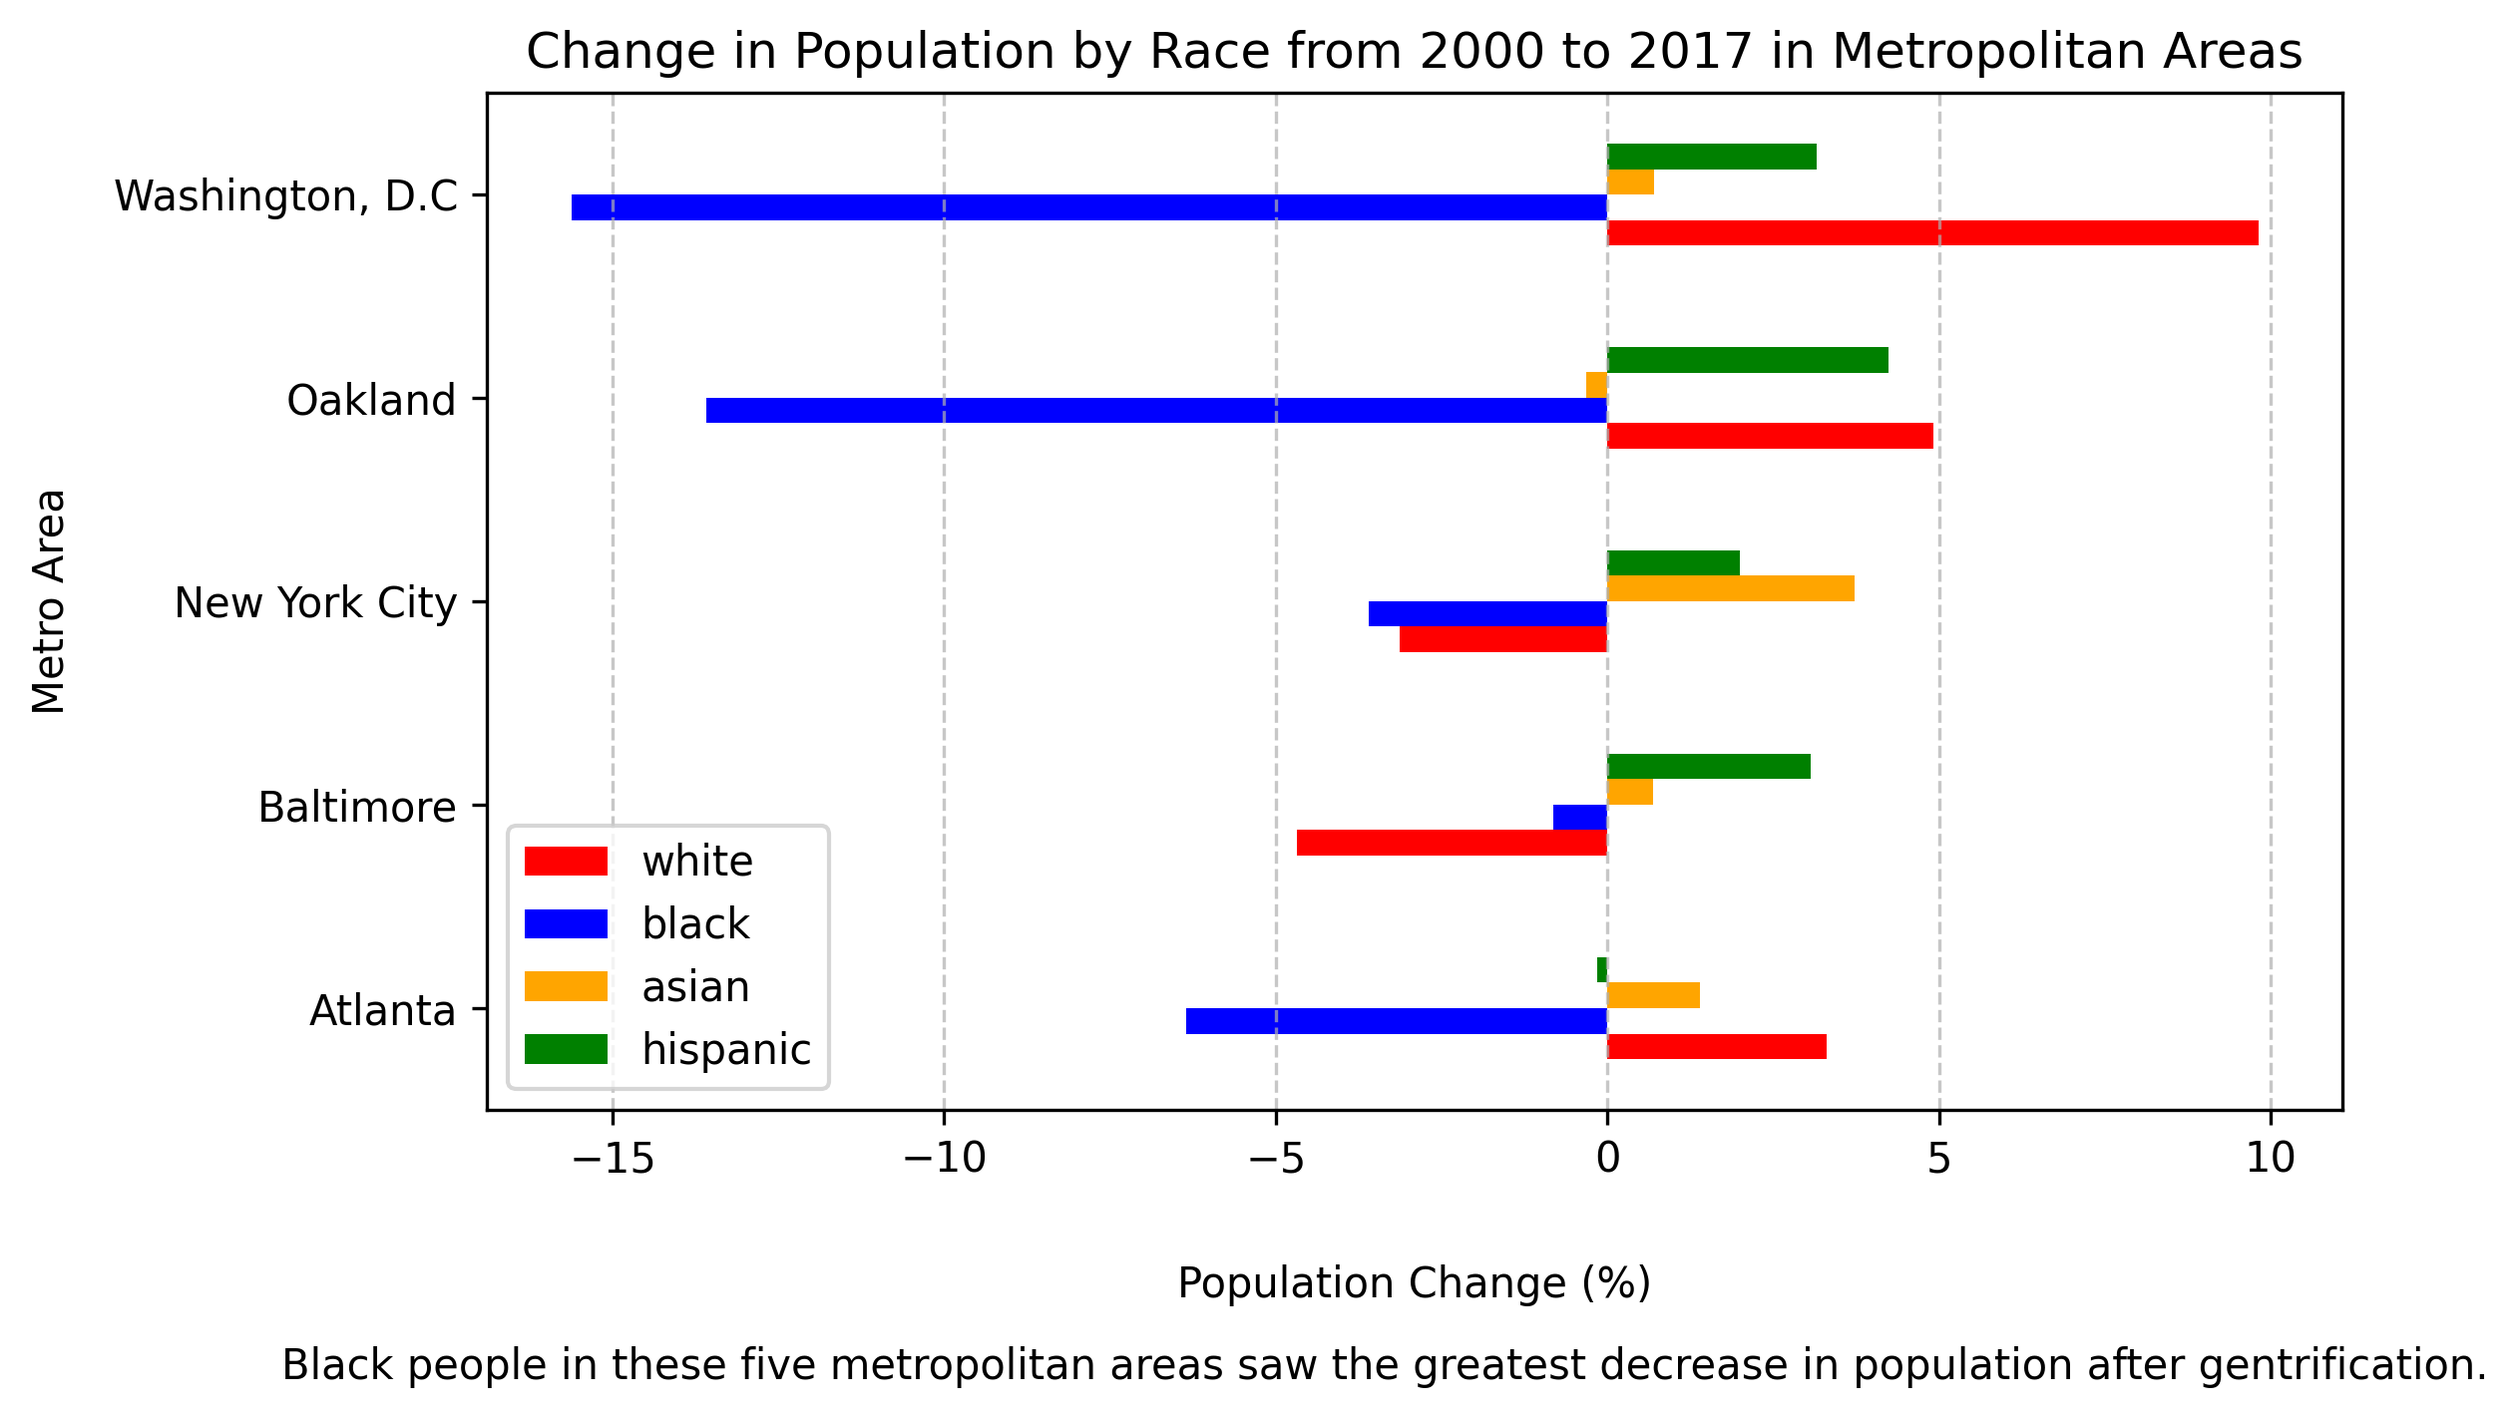
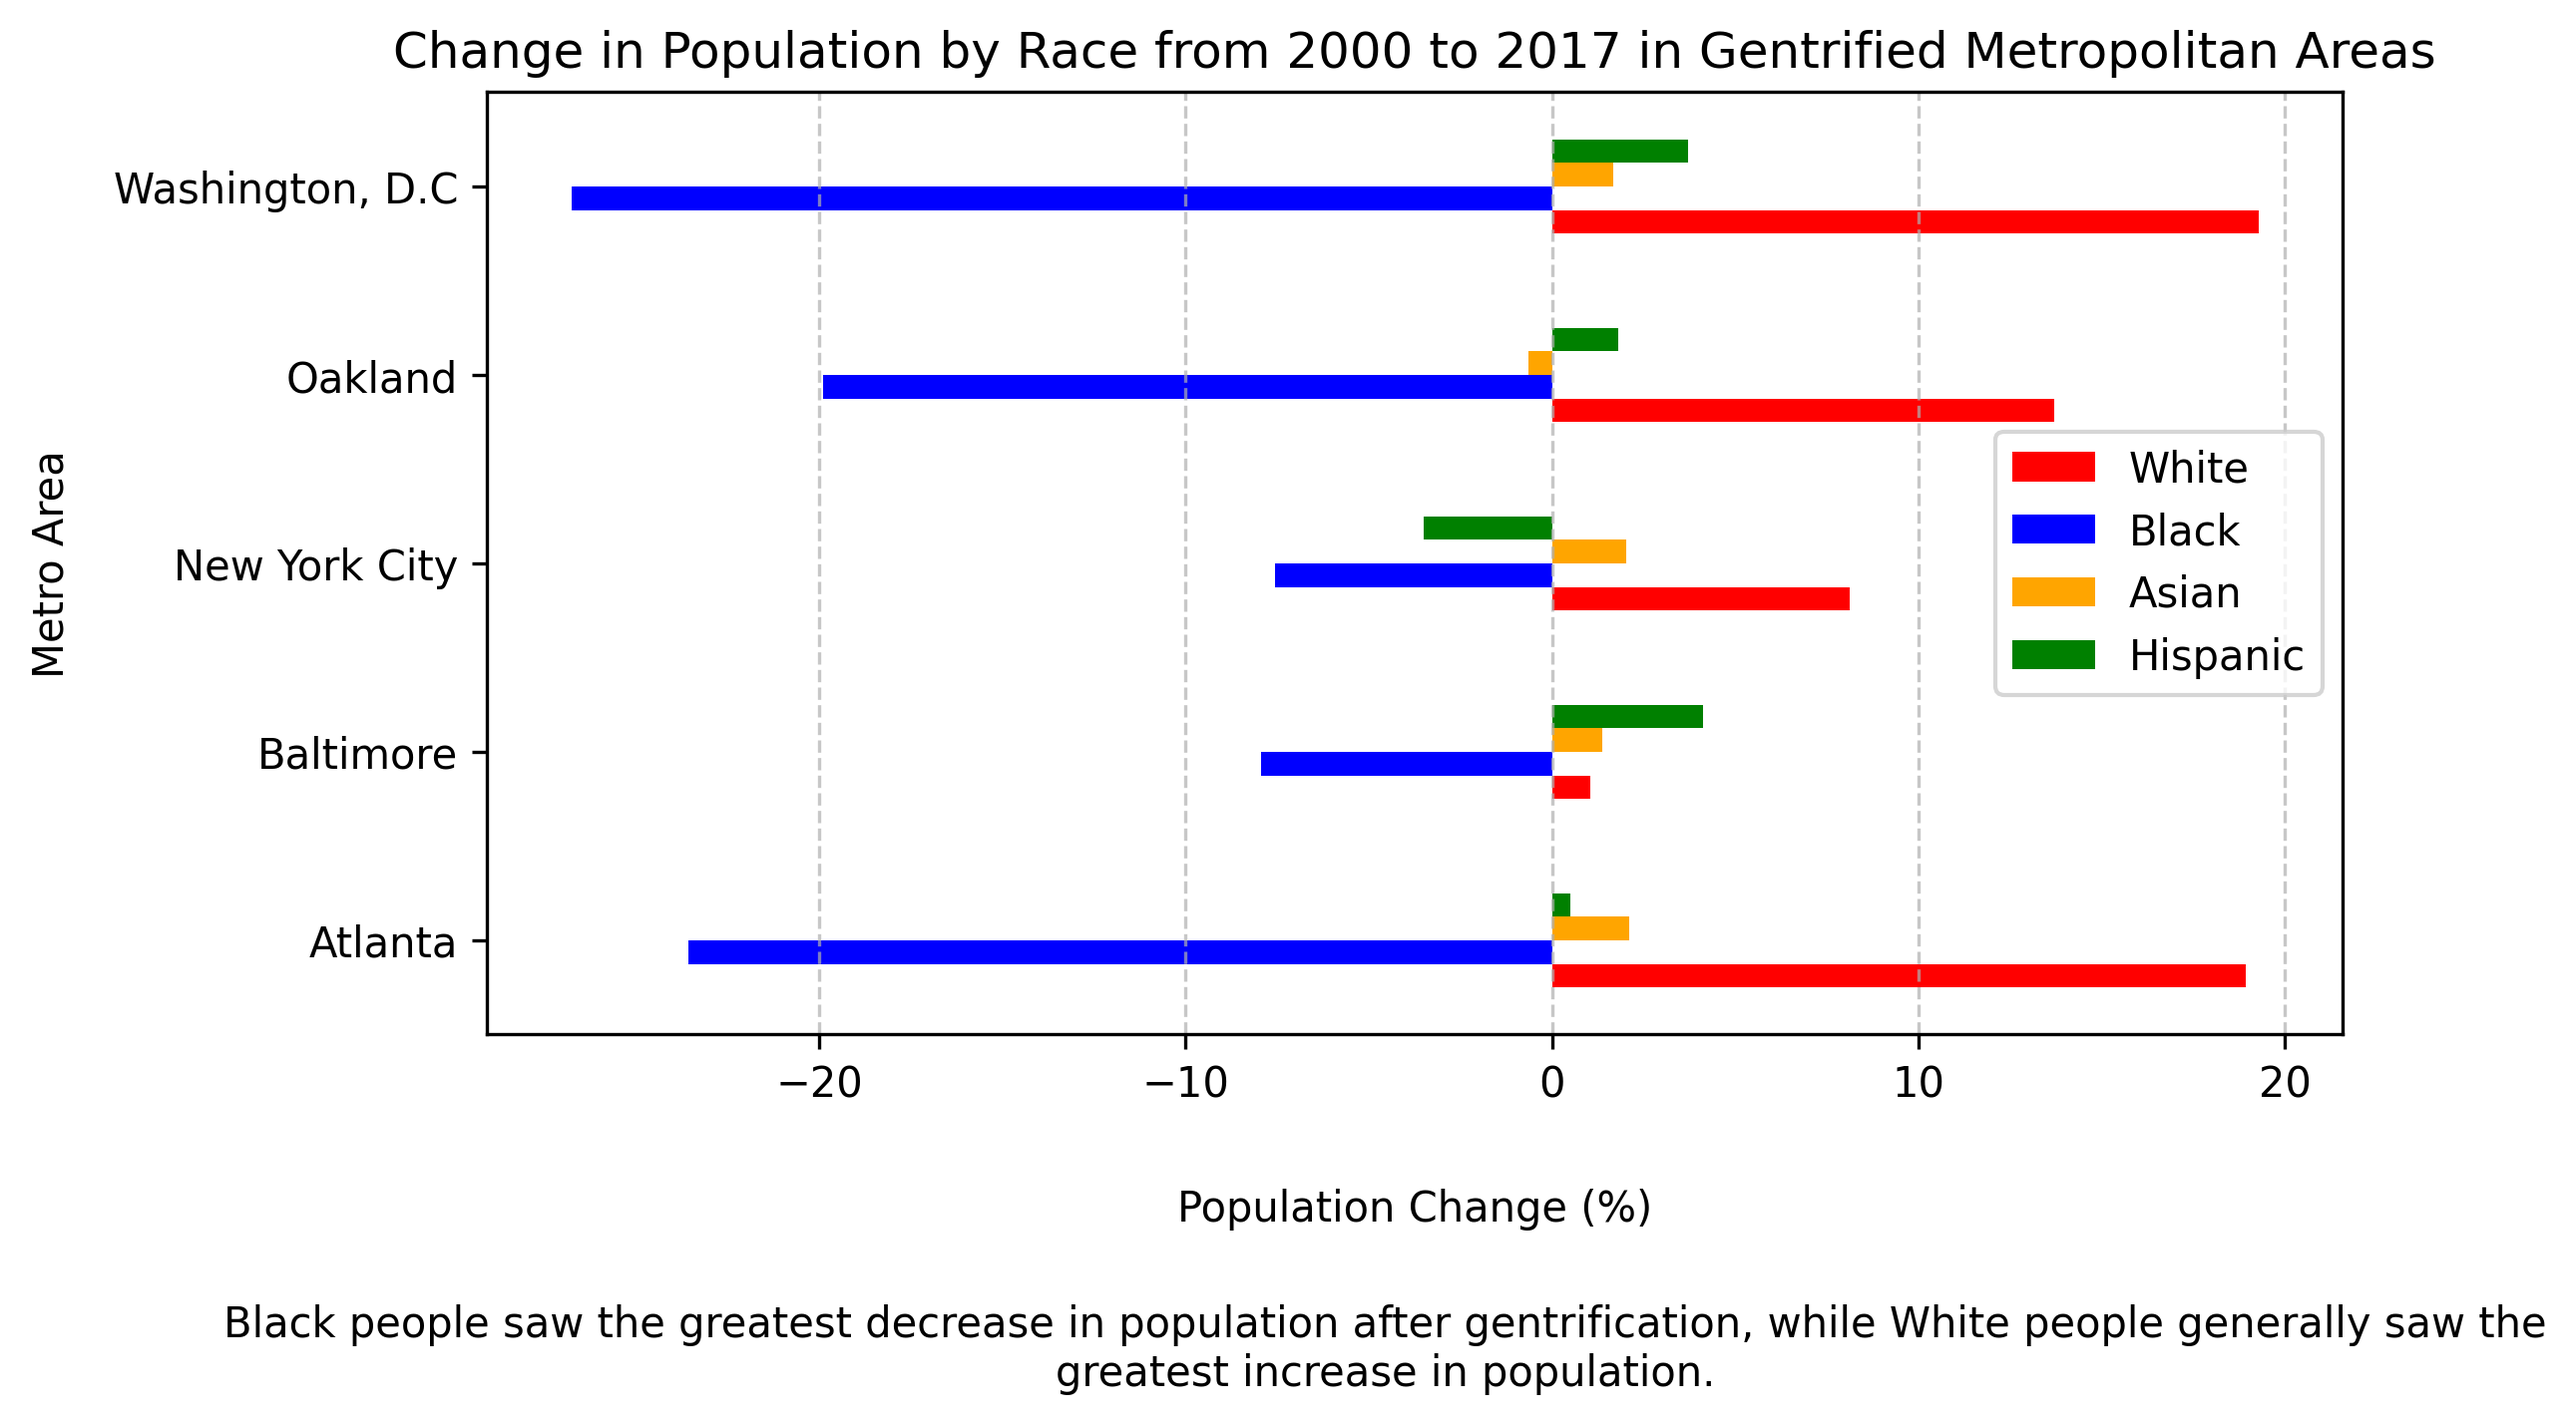
filtered data on gentrified cities only and fixed capitalization

diff --git a/white_hat.py b/white_hat.py
@@ -11,19 +11,22 @@ black_change = gentrification["pct_black_alone_change"]
 asian_change = gentrification["pct_asian_alone_change"]
 hispanic_change = gentrification["pct_hispanic_or_latino_change"]
 metro_area = gentrification["metro_area"]
+gentrified = gentrification["gentrified"]
 
 
 # Clean the data for each race
 df = pd.DataFrame({
-    'white': white_change,
-    'black': black_change,
-    'asian': asian_change,
-    'hispanic': hispanic_change,
-    'metro_area': metro_area
+    'White': white_change,
+    'Black': black_change,
+    'Asian': asian_change,
+    'Hispanic': hispanic_change,
+    'metro_area': metro_area,
+    'gentrified': gentrified
 })
 
 clean_df = df.dropna()
-aggregated_df = df.groupby('metro_area').agg({'white': 'mean', 'black': 'mean', 'asian': 'mean', 'hispanic': 'mean'}).reset_index()
+gentrified_only_df = clean_df[clean_df['gentrified'] != False]
+aggregated_df = gentrified_only_df.groupby('metro_area').agg({'White': 'mean', 'Black': 'mean', 'Asian': 'mean', 'Hispanic': 'mean'}).reset_index()
 aggregated_df['metro_area'] = aggregated_df['metro_area'].replace({'Atlanta-Sandy Springs-Alpharetta' : 'Atlanta', 
                                                   'Baltimore-Columbia-Towson': 'Baltimore', 
                                                   'New York-Newark-Jersey City': 'New York City', 
@@ -35,13 +38,13 @@ aggregated_df.set_index('metro_area').plot(kind='barh', figsize=(8, 5), color=['
 plt.ylabel('Metro Area', labelpad=10) 
 plt.xlabel('Population Change (%)', labelpad=20)  
 plt.ticklabel_format(style='plain', axis='x') 
-plt.title('Change in Population by Race from 2000 to 2017 in Metropolitan Areas')
+plt.title('Change in Population by Race from 2000 to 2017 in Gentrified Metropolitan Areas')
 plt.legend()
 plt.grid(axis='x', linestyle='--', alpha=0.7)  
-plt.subplots_adjust(bottom=0.2) 
-plt.figtext(0.5, 0.02, "Black people in these five metropolitan areas saw the greatest decrease in population after gentrification.", wrap=True, horizontalalignment='center', fontsize=10)
+plt.subplots_adjust(bottom=0.25) 
+plt.figtext(0.5, 0.02, "Black people saw the greatest decrease in population after gentrification, while White people generally saw the greatest increase in population.", wrap=True, horizontalalignment='center', fontsize=10)
 
 # save the figure as PNG
-plt.savefig("white_hat.png", bbox_inches='tight', dpi=300) 
+plt.savefig("white_hat.png", bbox_inches='tight', dpi=300)
 
 plt.show()
